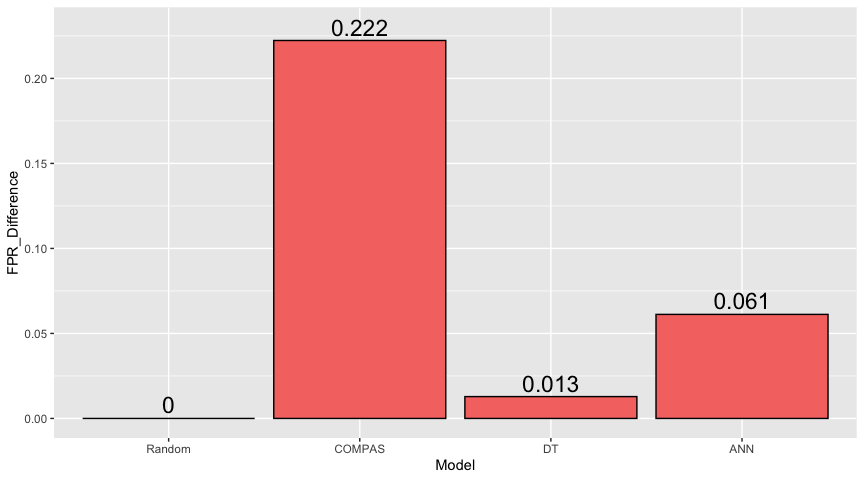
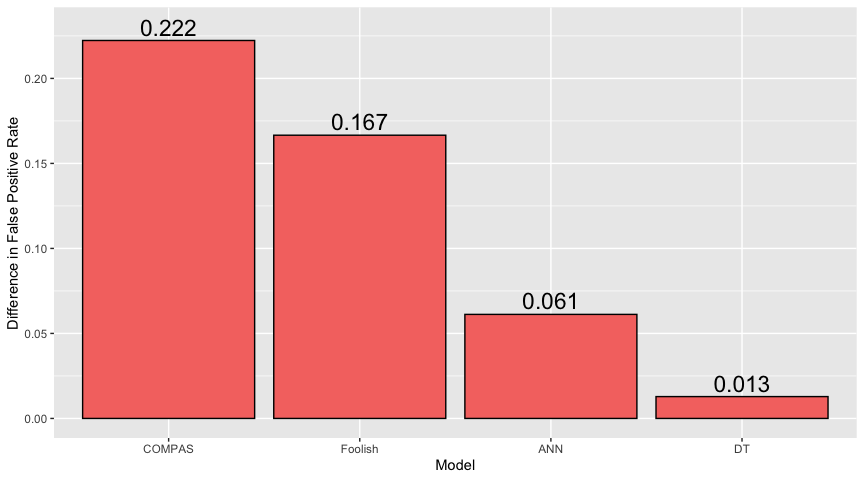
Further added graphs

diff --git a/Data Analytics/basicAnalytics.md b/Data Analytics/basicAnalytics.md
@@ -274,14 +274,19 @@ Cameron Kline-Sharpe
 +                              FPR(filter(simple_COMPAS, race == "Caucasian")),
 +                              FPR(filter(simple_COMPAS, race == "African-American")))
 > 
-> Fair_by_race <- get_fairness(Fair_by_race, "DT",
-+              FPR(filter(DT, race == "Caucasian")),
-+              FPR(filter(DT, race == "African-American")))
+> 
+> Fair_by_race <- get_fairness(Fair_by_race, "Foolish",
++                               0.2871621,
++                               0.453757)
 > 
 > Fair_by_race <- get_fairness(Fair_by_race, "ANN",
 +                              FPR(filter(ANN, Caucasian == 1)),
 +                              FPR(filter(ANN, `African-American` == 1)))
 > 
+> 
+> Fair_by_race <- get_fairness(Fair_by_race, "DT",
++              FPR(filter(DT, race == "Caucasian")),
++              FPR(filter(DT, race == "African-American")))
 > 
 > plot_fairness(Fair_by_race)
 ```
@@ -291,6 +296,7 @@ Cameron Kline-Sharpe
 ``` r
 > 
 > Fair_by_race %>%
++   filter(Model != "Random") %>%
 +   spread(Race, FPR) %>%
 +   mutate(FPR_Difference = Black - White) %>%
 +   ggplot(aes(x = Model, y = FPR_Difference)) +
@@ -298,24 +304,45 @@ Cameron Kline-Sharpe
 +              position="dodge", fill = red) +
 +     geom_text(aes(label = round(FPR_Difference, 3),
 +                   y = FPR_Difference + 0.008),
-+               size = 6)
++               size = 6) +
++     labs(y = "Difference in False Positive Rate")
 ```
 
 ![](basicAnalytics_files/figure-gfm/fairness-3.png)<!-- -->
 
 ``` r
+> get_sex_fairness <- function(old, model, maleFPR, femaleFPR){
++   new <- list(Model = model, Male = maleFPR, Female = femaleFPR) %>%
++     as.data.frame() %>%
++     gather(Male, Female, key=Sex, value = FPR)
++   data <- rbind(old, new)
++ }
 > 
 > Sex_fair <- list(Model = c("Random", "Random"),
-+              Race = c("White", "Black"),
++              Sex = c("Male", "Female"),
 +              FPR = c(0.5, 0.5)) %>%
 +   as.data.frame() %>%
 +   as.tbl()
 > 
-> Sex_fair <-  get_fairness(Sex_fair, "ANN",
+> Sex_fair <-  get_sex_fairness(Sex_fair, "COMPAS",
++              FPR(filter(simple_COMPAS, sex == "Male")),
++              FPR(filter(simple_COMPAS, sex == "Female")))
+> 
+> Sex_fair <-  get_sex_fairness(Sex_fair, "DT",
++              FPR(filter(DT, sex == "Male")),
++              FPR(filter(DT, sex == "Female")))
+> 
+> Sex_fair <-  get_sex_fairness(Sex_fair, "ANN",
 +              FPR(filter(ANN, Male == 1)),
 +              FPR(filter(ANN, Female == 1)))
 > 
+> ggplot(Sex_fair, aes(x=Model, y=FPR, fill = Sex)) +
++     geom_bar(stat = "identity", color = "black", position="dodge") +
++     scale_fill_manual(values = c(blue, green)) +
++     ylim(0,1)
 ```
+
+![](basicAnalytics_files/figure-gfm/sexFair-1.png)<!-- -->
 
 ``` r
 > 
